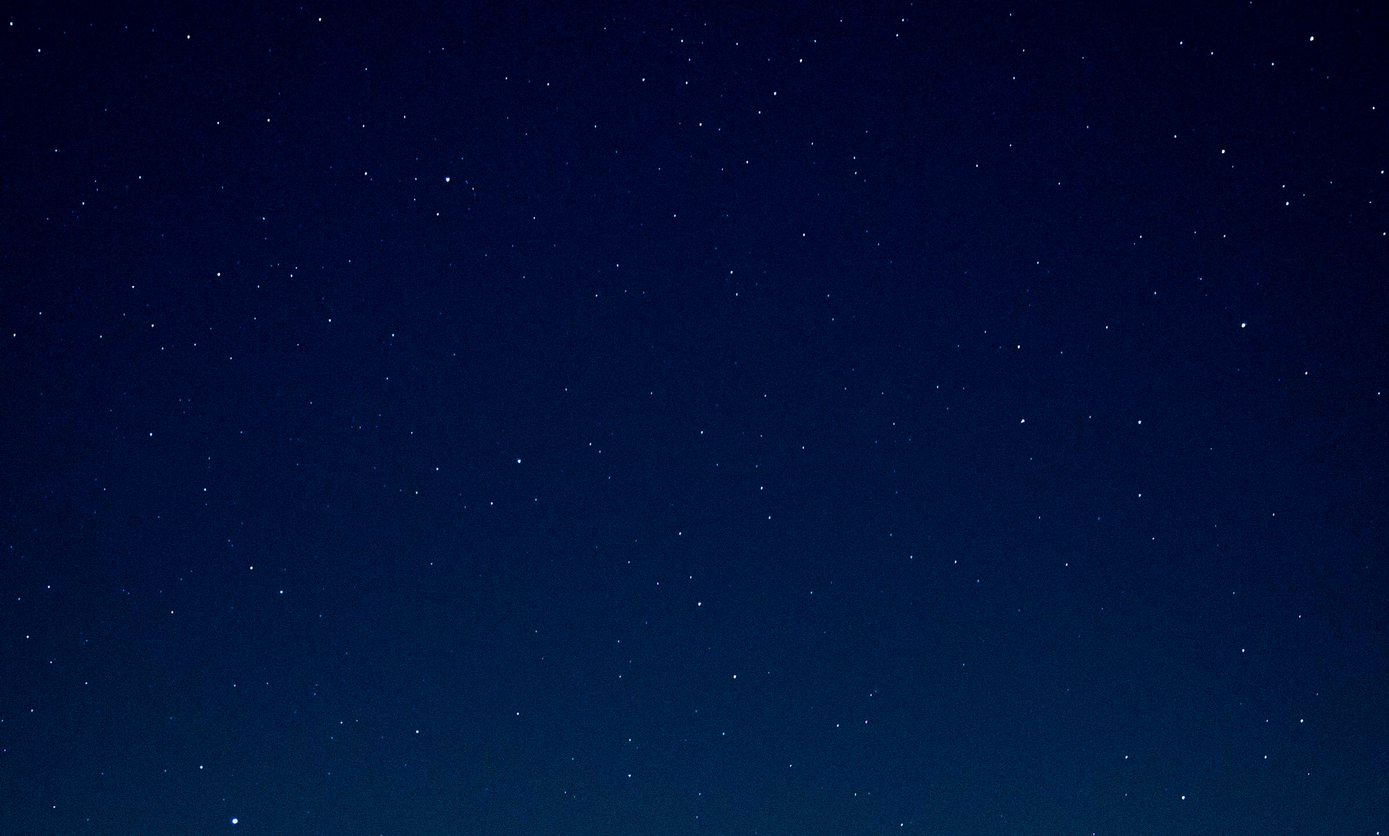
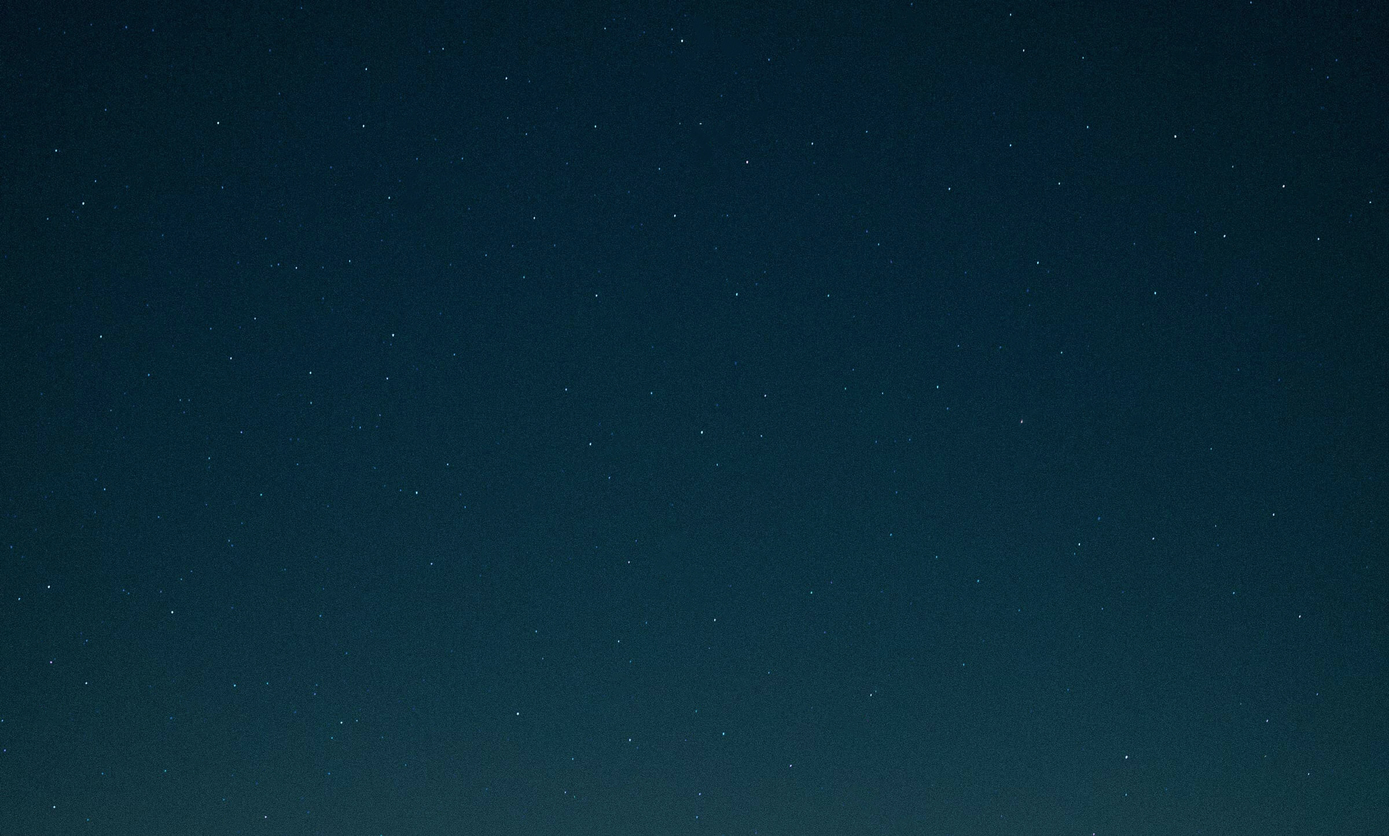
10th version

diff --git a/style.css b/style.css
@@ -123,15 +123,10 @@ nav ul li a:hover {
 	color: darkcyan;
 }
 section.global-width {
-	margin-top: 50vh;
-	padding: 100px;
+	margin-top: 33vh;
+	padding: 50px;
 }
-section h2 {
-	font-size: 3em;
-	/* box-sizing: border-box;    /* 체크 */
-	/* padding-top: 2.7rem;    /* 체크 */
-	/* padding-bottom: 0.6rem;    /* 체크 */
-}
+
 section p {
 	font-size: 1.2em;
 }
@@ -205,17 +200,18 @@ section p {
 	}
 }
 
-
 img {
 	max-width: 100%;
 	height: auto;
 }
 .page-title {
 	font-family: 'Staatliches', cursive;
+	letter-spacing : 1px;
 	/*font-family: 'Caveat', cursive;*/
 	font-size: 80px;
-	padding-top: 500px;
-	padding-bottom: 20px;
+	text-align: center;
+	padding-top: 40px;
+	padding-bottom: 70px;
 }
 .global-width {
 	max-width: 900px; 
@@ -258,7 +254,7 @@ img {
 }
 .balloons { /* 말풍선 */
 	color: #303030;
-	font-size: 26px;
+	font-size: 25px;
 	font-weight: 400;
 	text-align: center;
 	align-items: center;
@@ -281,7 +277,7 @@ img {
 	}
 }
 #about {
-	padding: 40px;
+	padding: 0px;
 }
 .logo2 {
 	position: relative;
@@ -293,11 +289,10 @@ img {
 .ending-text {
 	color: white;
 	position: relative;
-	margin-left: 20vw;
-	margin-right: 20vw;
+	margin-left: 21vw;
+	margin-right: 21vw;
 	box-sizing: border-box;
-	font-size: 25px;
-	font-weight: 500;
+	font-size: 26px;
 	text-align: center;
 	align-items: center;
 	z-index: 0;
@@ -305,7 +300,7 @@ img {
 .grid {
 	border-top: 0.2px solid whitesmoke;
 	padding-top: 50px;
-	font-size: 22px;
+	font-size: 21px;
 	font-weight: 300;
 	list-style: none;
 	text-align: center;
@@ -336,7 +331,7 @@ footer ul li a:hover {
 	position: absolute;
 	display: block;
 	color: white;
-	font-size: 55px;
+	font-size: 60px;
 	text-decoration: none;
 	left: 50%;
 	top: 45%;
@@ -422,8 +417,6 @@ footer ul li a:hover {
 	}
 }
 
-
-
 /*
 .container {
 	background: black;
@@ -493,43 +486,6 @@ footer ul li a:hover {
 
 
 /*
-#Option {
-	color: white;
-	text-align: center;
-	align-items: center;
-	margin-top: -30px;
-	padding: 0;
-	margin: 0;
-}
-.left, .right {
-	width: 50%;
-	min-height: 1000px;
-	z-index: -1;
-	position: absolute;
-}
-.left {
-	left: 0px;
-	background-color: #CE794E;
-}
-.right {
-	right: 0px;
-	background-color: #269096;
-}
-.left-text, .right-text {
-	width: 50%;
-	z-index: 10;
-	position: absolute;
-	top: 50%;
-	font-size: 50px;
-}
-.left-text {
-	left: 0px;
-}
-.right-text {
-	right: 0px;
-} 
-
-
 .music {
 	position: fixed;
 	top: 50%;
@@ -632,39 +588,48 @@ body.wunsch {
 	padding: 0;
 	box-sizing: border-box;
 	overflow: hidden;
+	background-color: #052536;
+	color: white;
+}
+.mouse-scroll2 {
+	position: absolute;
+	width: 35px; 
+	top: 95%;
+	left: 50%;
+	z-index: 100; 
 }
 .stern-text {
-	position: fixed;
+	position: absolute;
 	color: white;
+	width: 100%;
 	top: 44%;
-	right: 32%;
 	text-align: center;
 	align-items: center;
-	z-index: 500;
+	z-index: 200;
 }
 .stern-text h2 {
-	padding-bottom: 20px;
-	font-size: 45px;
+	font-size: 55px;
+	padding-bottom: 18px;
 }
 .stern-text p {
-	font-size: 24px;
+	font-size: 22px;
 	font-weight: 300;
 }
 section.sternschnuppe {
 	position: absolute;
 	top: 0;
-	left: -40px;
+	left: -40px; /*배경 이미지 썼을 때 흰 부분 안보이게 하려고*/ 
 	width: 110%;
 	height: 110vh;
-	background: url(images/logo_bg.jpg);
-	background-color: rgb(2, 4, 22);
+	background: url(images/stern_bg.png);
 	background-position-x: center;
 	background-size: cover;
 	animation: animateBg 7s linear infinite;
+	z-index: -1;
 }
 @keyframes animateBg {
 	0%, 100% {
-		transform: scale(1) rotate(1.5deg)/*회전 좋은데 그러면 사진을 바꿔야*/;
+		transform: scale(1) rotate(1.5deg); /*회전 좋은데 그러면 사진을 바꿔야*/
 	}
 	50% {
 		transform: scale(1.2);
@@ -674,7 +639,7 @@ span {
 	position: absolute;
 	top: 50%;
 	width: 7px; /*별똥별 머리 가로*/
-	height: 5px;
+	height: 3px;
 	background: rgb(255, 255, 255);
 	border-radius: 100%;
 	box-shadow: 0 0 0 2px rgba(255, 255, 255, 0.2),
@@ -745,6 +710,15 @@ span:nth-child(7) {
 	right: 83%;
 	animation-delay: -0.9s;
 	animation-duration: 1.7s;
+}
+main.wunsch-main{
+	display: none;
+	color: white;
+	font-size: 20px;
+	text-align: center;
+	margin: 200px;
+	margin-top: 900px;
+	z-index: 600;
 }
 
 

diff --git a/kontakt.html b/kontakt.html
@@ -79,7 +79,7 @@
 	
 
 	<p class="copyright">
-		Copyright<br>
+		Copyrightvermerk<br>
 		Lorem ipsum dolor sit amet, consetetur sadipscing elitr, 
 		sed diam nonumy eirmod tempor invidunt ut labore et dolore magna aliquyam erat, sed diam voluptua. 
 		At vero eos et accusam et justo duo dolores et ea rebum. Stet clita kasd gubergren, no sea takimata 
@@ -92,17 +92,7 @@
 		sanctus est Lorem ipsum dolor sit amet.   
 		Duis autem vel eum iriure dolor in hendrerit in vulputate velit esse molestie consequat, 
 		vel illum dolore eu feugiat nulla facilisis at vero eros et accumsan et iusto odio dignissim qui 
-		blandit praesent luptatum zzril delenit augue duis dolore te feugait nulla facilisi.
-		Lorem ipsum dolor sit amet, consetetur sadipscing elitr, 
-		sed diam nonumy eirmod tempor invidunt ut labore et dolore magna aliquyam erat, sed diam voluptua. 
-		At vero eos et accusam et justo duo dolores et ea rebum. Stet clita kasd gubergren, no sea takimata 
-		sanctus est Lorem ipsum dolor sit amet. Lorem ipsum dolor sit amet, consetetur sadipscing elitr, 
-		sed diam nonumy eirmod tempor invidunt ut labore et dolore magna aliquyam erat, sed diam voluptua. 
-		At vero eos et accusam et justo duo dolores et ea rebum. Stet clita kasd gubergren, no sea takimata 
-		sanctus est Lorem ipsum dolor sit amet. Lorem ipsum dolor sit amet, consetetur sadipscing elitr, 
-		sed diam nonumy eirmod tempor invidunt ut labore et dolore magna aliquyam erat, sed diam voluptua. 
-		At vero eos et accusam et justo duo dolores et ea rebum. Stet clita kasd gubergren, no sea takimata 
-		sanctus est Lorem ipsum dolor sit amet.   
+		blandit praesent luptatum zzril delenit augue duis dolore te feugait nulla facilisi.   
 		Duis autem vel eum iriure dolor in hendrerit in vulputate velit esse molestie consequat, 
 		vel illum dolore eu feugiat nulla facilisis at vero eros et accumsan et iusto odio dignissim qui 
 		blandit praesent luptatum zzril delenit augue duis dolore te feugait nulla facilisi.

diff --git a/index.html b/index.html
@@ -52,7 +52,7 @@
 			<div class="graphic-item"><img class="scene-img" src="images/05.png" alt=""></div>
 			<div class="graphic-item"><img class="scene-img" src="" alt=""></div>
 			<div class="graphic-item"><img class="scene-img" src="images/07.png" alt=""></div>
-			<div class="graphic-item"><img class="scene-img" src="" alt=""></div>
+			<div class="graphic-item"><img class="scene-img" src="images/08.png" alt=""></div>
 			<div class="graphic-item"><img class="scene-img" src="" alt=""></div>
 			<div class="graphic-item"><img class="scene-img" src="images/10.png" alt=""></div>
 			<div class="graphic-item"><img class="scene-img" src="images/11.png" alt=""></div>
@@ -152,13 +152,17 @@
 			uns die Zeit für den Wechsel zwischen Zuhause- und Arbeits-Modus nehmen. 
 			Die Meditation muss nicht immer auf der Yogamatte stattfinden, 
 			sondern wir können eigentlich zu jeder Zeit und an jedem Ort meditieren.
-			Nehmen Sie sich nur fünf Minuten vor- und nach der Arbeit </li>
+			Nehmen Sie sich nur fünf Minuten vor- und nach der Arbeit. </li>
 			
 			<li class="grid-item"><h2><a href="lob.html">LOB</a></h2>
-			Jemand hat Ihnen etwas zu sagen</li>
+			Wir sollten uns mehr um unsere eigene Motivation kümmern, und Lob ist ein einfaches Mittel zur Motivation. 
+			Es gibt eine Nachricht, die Ihnen jemand mitteilen möchte.</li>
 			
 			<li class="grid-item"><h2><a href="wunsch.html">WUNSCHSTERN</a></h2>
-			Wünsche sind ein natürlicher Motor des Lebens und eine Form der Selbstdarstellung. Was wünschen Sie?</li>
+			Wünsche sind ein natürlicher Motor des Lebens und eine Form der Selbstdarstellung.
+			Wenn wir unsere Wünsche ausdrücken, können wir ein Hochgefühl verspüren und das stärkt unser Selbstvertrauen. 
+			Vor allem enthalten Wünsche fast immer positive Energie. Nehmen Sie mal die Nachricht wahr, die Ihre tiefe Seele sendet.
+			</li>
 		</ul>
 	</footer>
 

diff --git a/wunsch.html b/wunsch.html
@@ -32,24 +32,38 @@
 		};
 	</script>
 
-	<section class="stern-text">
-		<h2>WAS WÜNSCHEN SIE ?</h2>
-		<p>
-			Wann haben Sie mal Ihren Seele zugehört ?<br>
-			Wir sollen Signale wahrnehmen, die uns unsere tiefe Seele sendet.<br>
-			Sternschnuppen fallen und es ist Zeit, sich Ihren Wunsch auszudrücken.<br>
-		</p>
+	<section class="wunsch-main">
+		<section class="stern-text">
+			<h2>WAS WÜNSCHEN SIE ?</h2>
+			<p>
+				Wann haben Sie das letzte Mal auf Ihre Seele gehört ?<br>
+				Wir verpassen oft Signale, die uns unsere tiefe Seele sendet.<br>
+				Sternschnuppen fallen und es ist Zeit, sich Ihren Wunsch auszudrücken.<br>
+			</p>
+		</section>
+
+		<section class="sternschnuppe">
+			<span></span>
+			<span></span>
+			<span></span>
+			<span></span>
+			<span></span>
+			<span></span>
+			<span></span>
+		</section>
 	</section>
 
-    <section class="sternschnuppe">
-        <span></span>
-		<span></span>
-		<span></span>
-		<span></span>
-		<span></span>
-		<span></span>
-		<span></span>
-    </section>
+	<img class="mouse-scroll2" src="images/mouse_scroll.png">
+
+	<main class="wunsch-main">
+		<h2>Schreiben Sie hier.</h2>
+		<p>
+		Lorem ipsum dolor sit amet, consetetur sadipscing elitr, 
+		sed diam nonumy eirmod tempor invidunt ut labore et dolore magna aliquyam erat, sed diam voluptua. 
+		At vero eos et accusam et justo duo dolores et ea rebum. Stet clita kasd gubergren, no sea takimata 
+		sanctus est Lorem ipsum dolor sit amet.  
+		</p>
+	</main>
 
 </body>
 </html>
